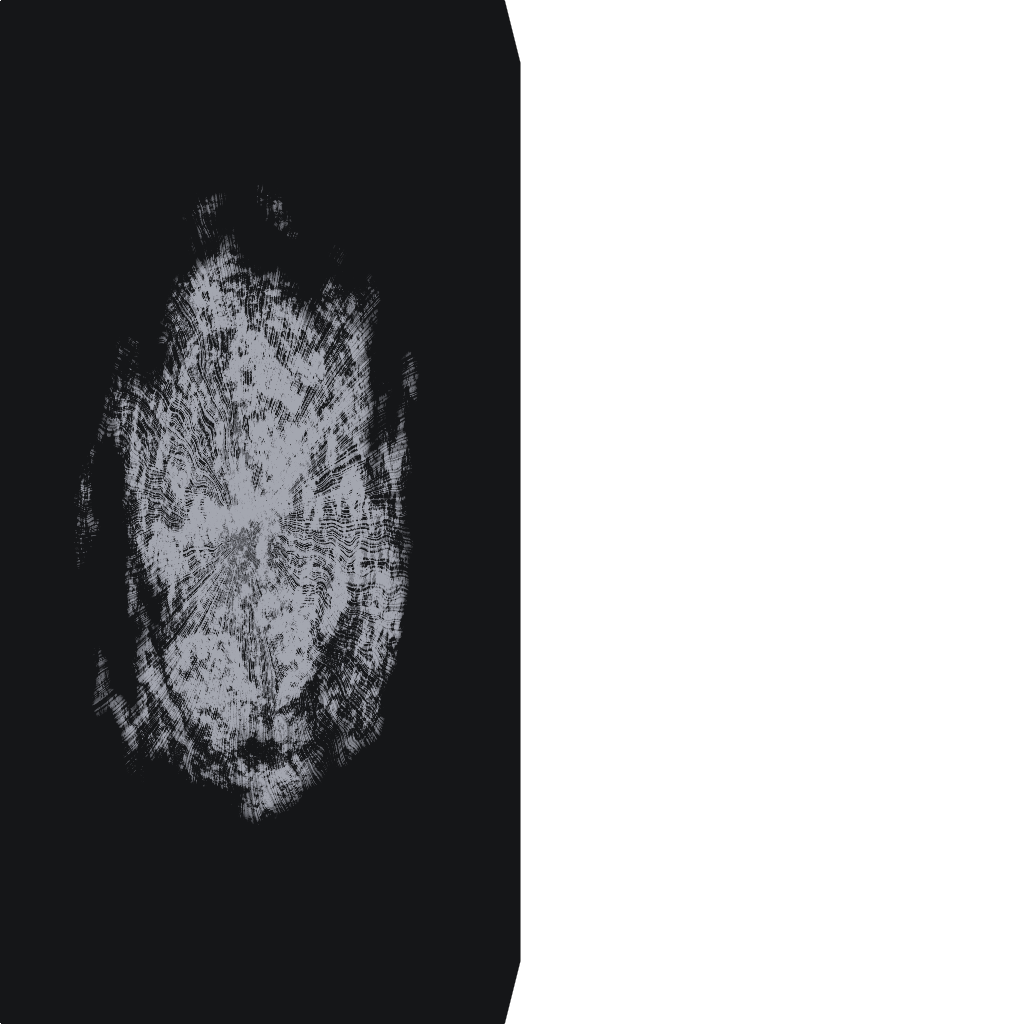
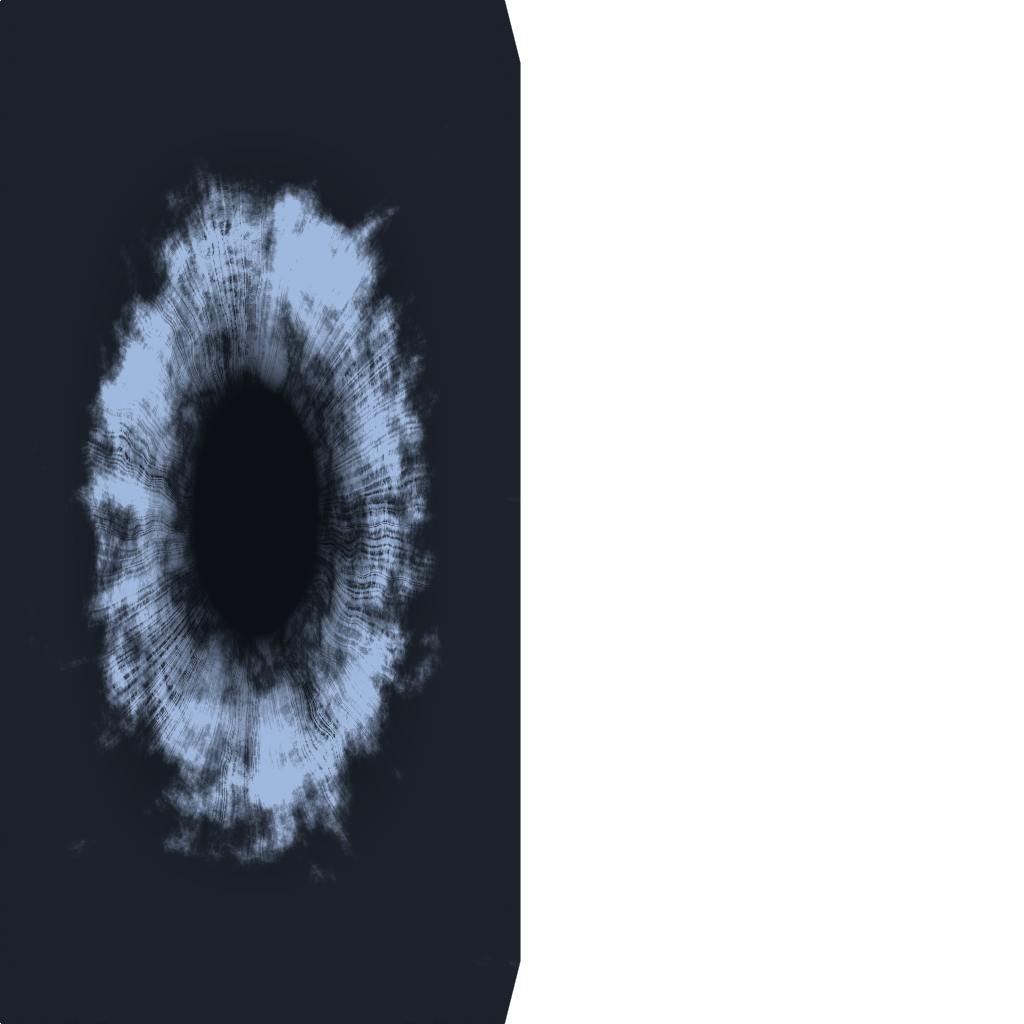
Swap out hero eye with improved version

Changed region(s): [[0.0625, 0.1562, 0.4375, 0.875], [0.0625, 0.8125, 0.0938, 0.8438]]

diff --git a/src/components/NavBar.tsx b/src/components/NavBar.tsx
@@ -6,7 +6,7 @@ interface NavBarProps {
 
 const NavBar: FC<NavBarProps> = ({ }) => {
   return (
-    <div className="z-50 fixed top-0 left-0 w-full h-40 flex justify-between items-center px-10 text-primary transition-colors font-medium">
+    <div className="z-50 fixed top-0 left-0 w-full h-40 flex justify-between items-center px-24 text-primary transition-colors font-medium">
       <h1 className="text-2xl tracking-wide">
         reforge
       </h1>
